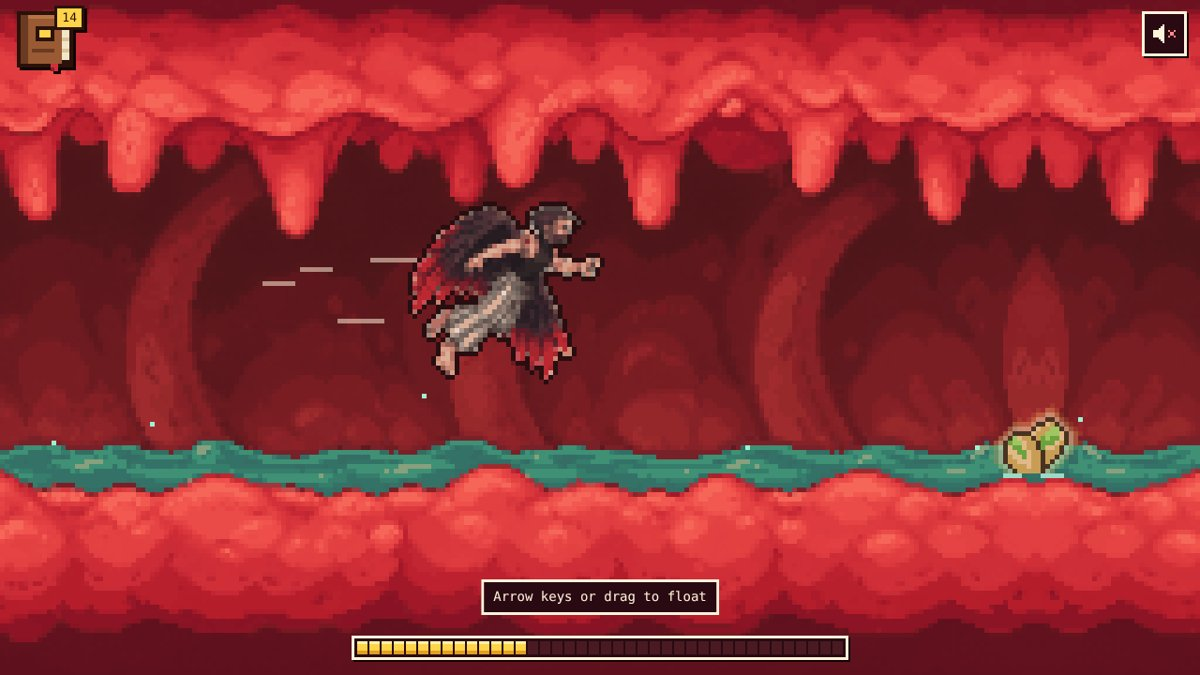
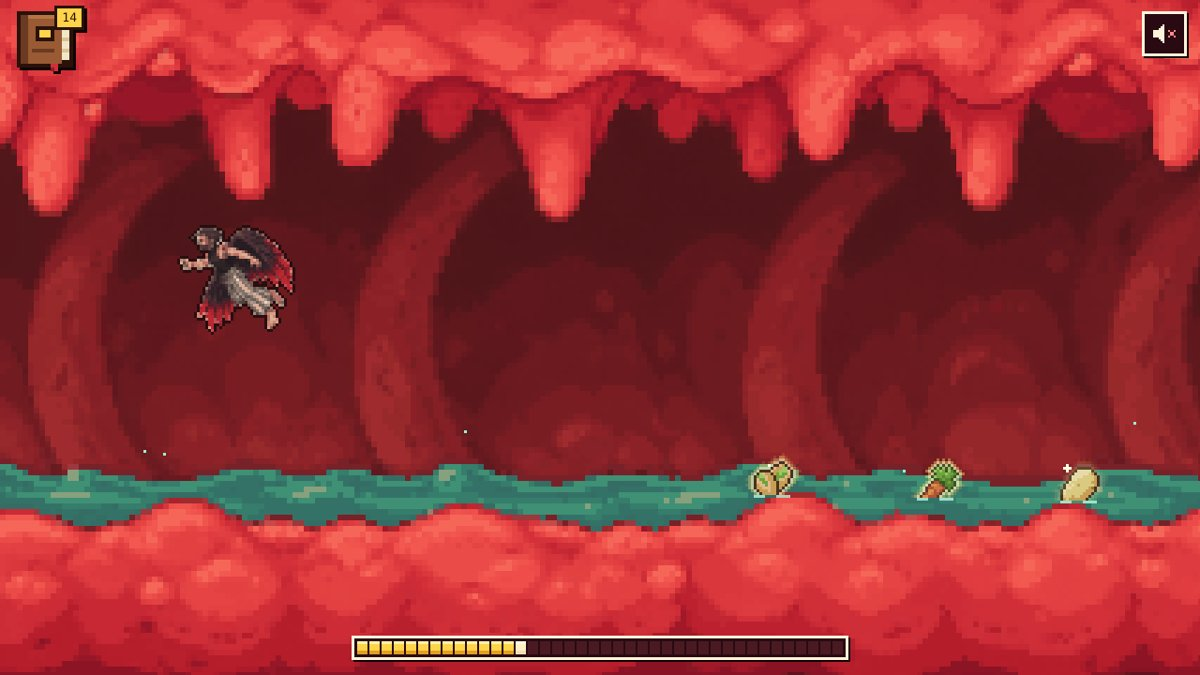
Zoom out: tunnel drawn at double scale so the hero and foods are smaller in a bigger room
Claude-Session: https://claude.ai/code/session_01TT9nh2LHULSaAs9YgLgihV

diff --git a/index.html b/index.html
@@ -124,7 +124,7 @@ canvas{touch-action:none;cursor:grab}
 {
 const cv = document.getElementById('c'), g = cv.getContext('2d');
 const still = matchMedia('(prefers-reduced-motion: reduce)').matches;
-const BG_H = 145, TILE_W = 514, FRAME_W = 51, FRAME_H = 55, ANCHOR_X = 25, ANCHOR_Y = 22;
+const BGS = 2, BG_H = 145, TILE_W = 514, FRAME_W = 51, FRAME_H = 55, ANCHOR_X = 25, ANCHOR_Y = 22;
 const bg = new Image(), kid = new Image();
 bg.src = 'assets/px-bg.png'; kid.src = 'assets/px-hero.png';
 
@@ -312,13 +312,13 @@ setTimeout(() => document.getElementById('help').style.opacity = 0, 6000);
 /* hovering or tapping a floating food */
 const tag = document.getElementById('tag');
 let hovered = null, tagHideT = 0;
-function foodAt(n) { for (const o of floats) if (n.x > o.x - 3 && n.x < o.x + 19 && n.y > top + 82 && n.y < top + 104) return o; return null; }
+function foodAt(n) { for (const o of floats) if (n.x > o.x - 3 && n.x < o.x + 19 && n.y > top + 101 * BGS - 18 && n.y < top + 101 * BGS + 3) return o; return null; }
 function showTag(o) {
   const r = cv.getBoundingClientRect();
   tag.textContent = o.f.name;
   const x = r.left + (o.x + 8) * k, hw = tag.offsetWidth / 2 + 8;
   tag.style.left = Math.max(hw, Math.min(innerWidth - hw, x)) + 'px';
-  tag.style.top = (r.top + (top + 80) * k) + 'px';
+  tag.style.top = (r.top + (top + 101 * BGS - 20) * k) + 'px';
   tag.classList.add('on');
 }
 cv.addEventListener('pointermove', e => {
@@ -401,11 +401,11 @@ soundBtn.addEventListener('click', () => { const on = sound.toggle(); soundBtn.s
 let W = 0, H = 0, k = 1, top = 0, topCol = '#4a0f1a', botCol = '#4a0f1a';
 function fit() {
   const vw = innerWidth, vh = innerHeight;
-  k = Math.max(1, Math.min(Math.ceil(vh / BG_H), Math.floor(vw / 110)));
+  k = Math.max(1, Math.min(Math.ceil(vh / (BG_H * BGS)), Math.floor(vw / 110)));
   W = Math.ceil(vw / k); H = Math.ceil(vh / k);
   cv.width = W; cv.height = H;
   cv.style.width = W * k + 'px'; cv.style.height = H * k + 'px';
-  top = Math.floor((H - BG_H) / 2);
+  top = Math.floor((H - BG_H * BGS) / 2);
   g.imageSmoothingEnabled = false;
 }
 addEventListener('resize', fit); fit();
@@ -428,9 +428,9 @@ const start = performance.now(); let lastT = 0;
 function draw(now) {
   const t = (now - start) / 1000, dt = Math.min(.05, t - lastT); lastT = t;
   g.fillStyle = topCol; g.fillRect(0, 0, W, top + 1);
-  g.fillStyle = botCol; g.fillRect(0, top + BG_H - 1, W, H - top - BG_H + 1);
+  g.fillStyle = botCol; g.fillRect(0, top + BG_H * BGS - 1, W, H - top - BG_H * BGS + 1);
   const scroll = 0;
-  if (bg.naturalWidth) for (let x = -scroll; x < W; x += TILE_W) g.drawImage(bg, x, top);
+  if (bg.naturalWidth) for (let x = -scroll; x < W; x += TILE_W * BGS) g.drawImage(bg, x, top, TILE_W * BGS, BG_H * BGS);
 
   if (!still) {
     g.fillStyle = '#9ff0d0';
@@ -438,7 +438,7 @@ function draw(now) {
       b.life += dt * .5;
       if (b.life > 1) { b.life = 0; b.x = Math.random() * TILE_W; }
       const sx = b.x % TILE_W;
-      if (b.life < .85) for (let x = sx; x < W; x += TILE_W) g.fillRect(Math.floor(x), top + 96 - Math.floor(b.life * 14), 1, 1);
+      if (b.life < .85) for (let x = sx * BGS; x < W; x += TILE_W * BGS) g.fillRect(Math.floor(x), top + 96 * BGS - Math.floor(b.life * 22), 1, 1);
     }
   }
 
@@ -450,7 +450,7 @@ function draw(now) {
     if (!still) o.x -= dt * 18;
     if (o.x < -24) { if (o === hovered) { hovered = null; tag.classList.remove('on'); } floats.splice(i, 1); continue; }
     const hot = o === hovered;
-    const fx = Math.round(o.x), wl = top + 101 + (still ? 0 : Math.round(Math.sin(t * 2 + o.ph))) - (hot ? 3 : 0);
+    const fx = Math.round(o.x), wl = top + 101 * BGS + (still ? 0 : Math.round(Math.sin(t * 2 + o.ph))) - (hot ? 3 : 0);
     if (hot) showTag(o);
     if (o.f.aura) {
       g.globalAlpha = hot ? 1 : still ? .8 : Math.max(.15, .55 + .45 * Math.sin(t * 3 + o.ph));
@@ -467,8 +467,8 @@ function draw(now) {
   }
 
   /* he flies around the still room: you steer him, or he wanders on his own */
-  const minX = 26, maxX = W - 34, minY = top + 24, maxY = top + 68;
-  if (px === null) { px = W * .4; py = top + 54; }
+  const minX = 26, maxX = W - 34, minY = top + 36 * BGS, maxY = top + 101 * BGS - 34;
+  if (px === null) { px = W * .4; py = top + 70 * BGS; }
   const ox = px, oy = py;
   let vx = 0, vy = 0;
   if (keys.has('arrowleft') || keys.has('a')) vx -= 1;
